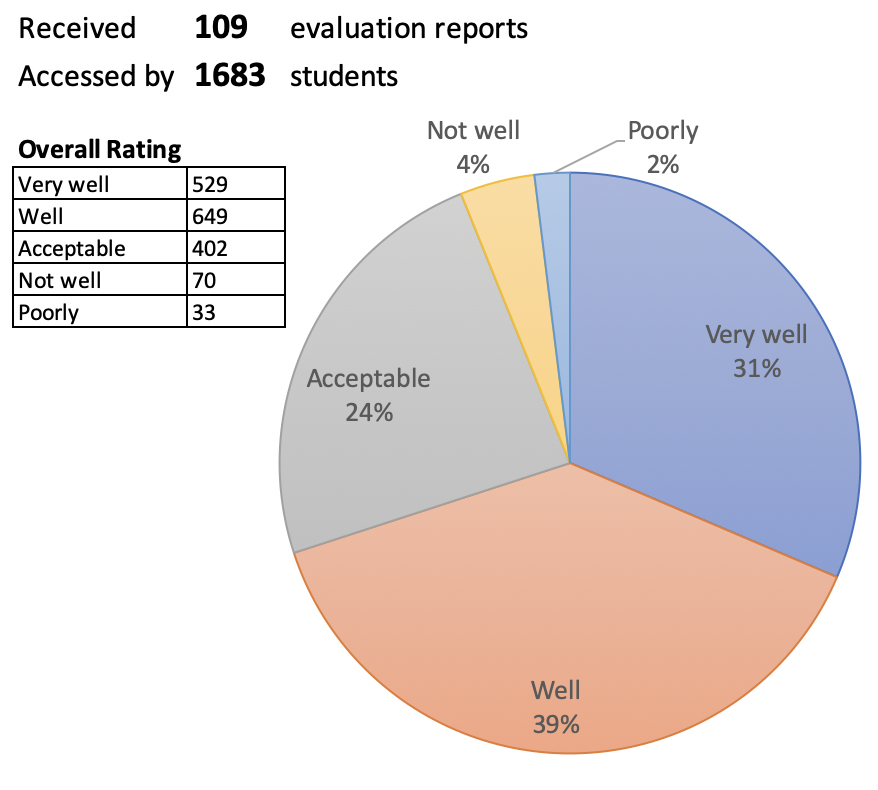
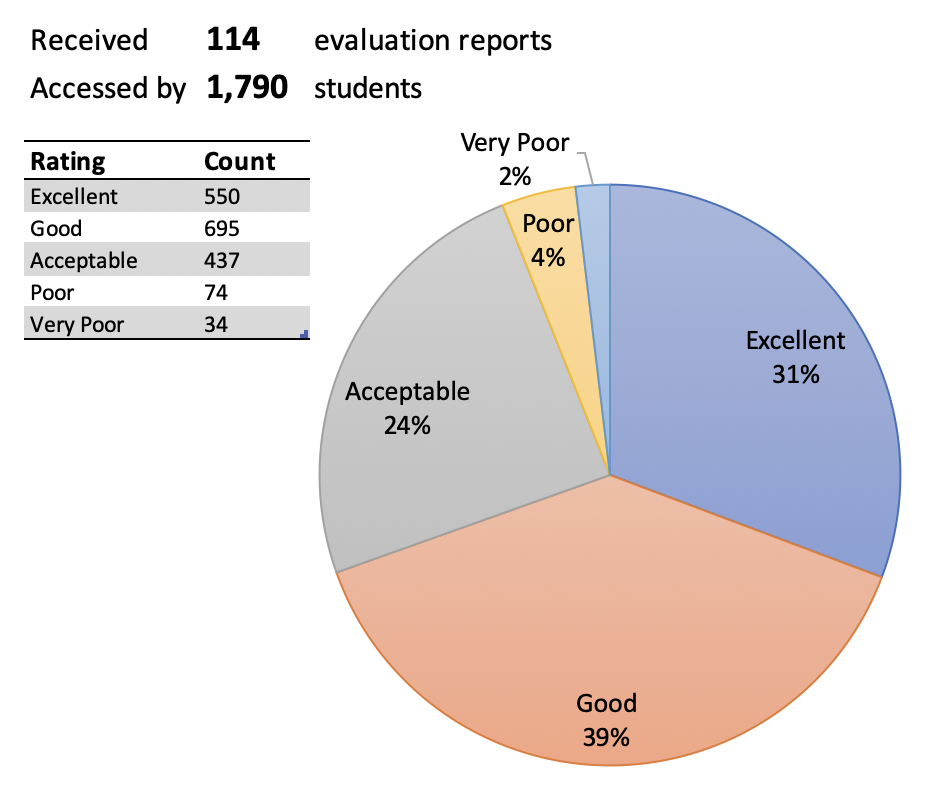
Updated teaching summary

diff --git a/layouts/page/teaching.html b/layouts/page/teaching.html
@@ -17,11 +17,16 @@
 
             </div>
 
-            <h5><i class="fa fa-list-alt" ></i>&nbsp;Summary</h5>
+            <h5><i class="fa fa-list-alt" ></i>&nbsp;Summary of the Overall Rating</h5>
+            <span class="small">
+                This summary ignores students giving NA (Not sure/Not applicable)
+                </span><br>
             <div class="col-12 col-md-9 col-lg-6 offset-lg-3 p-3">
+                
                 <img src="/evaluation/summary.png" class="mx-auto d-block img-fluid"
                  alt="summary of teaching evaluation reports">
             </div>
+
             <h5><i class="fas fa-comments"></i>&nbsp;Selected Feedback</h5>
             <div class="col-12 p-3 mb-3">
                 <ul style="list-style-type: none;">
@@ -31,7 +36,7 @@
                             <i class="far fa-thumbs-up"></i> {{ .content}}
                             <br>
                             <span class="small">
-                                received from a student in 
+                                quoted from a student in 
                                 <a href="/evaluation/{{.report}}" target="_blank">
                                     <i class="far fa-file-pdf"></i>
                                     {{.course}} {{.section}} {{.semester}}

diff --git a/layouts/partials/tab_content.html b/layouts/partials/tab_content.html
@@ -71,7 +71,12 @@
             {{ range .tags}}
             <span class="badge badge-pill badge-warning">{{.}}</span>
             {{end}}
+            
+            {{ if gt (len .tags) 1 }}
+            <br>
+            <span class="small">old course codes and honour course codes are mapped to the most relevant existing course code</span>
             </p>
+            {{ end }}
         {{end}}
 
 
